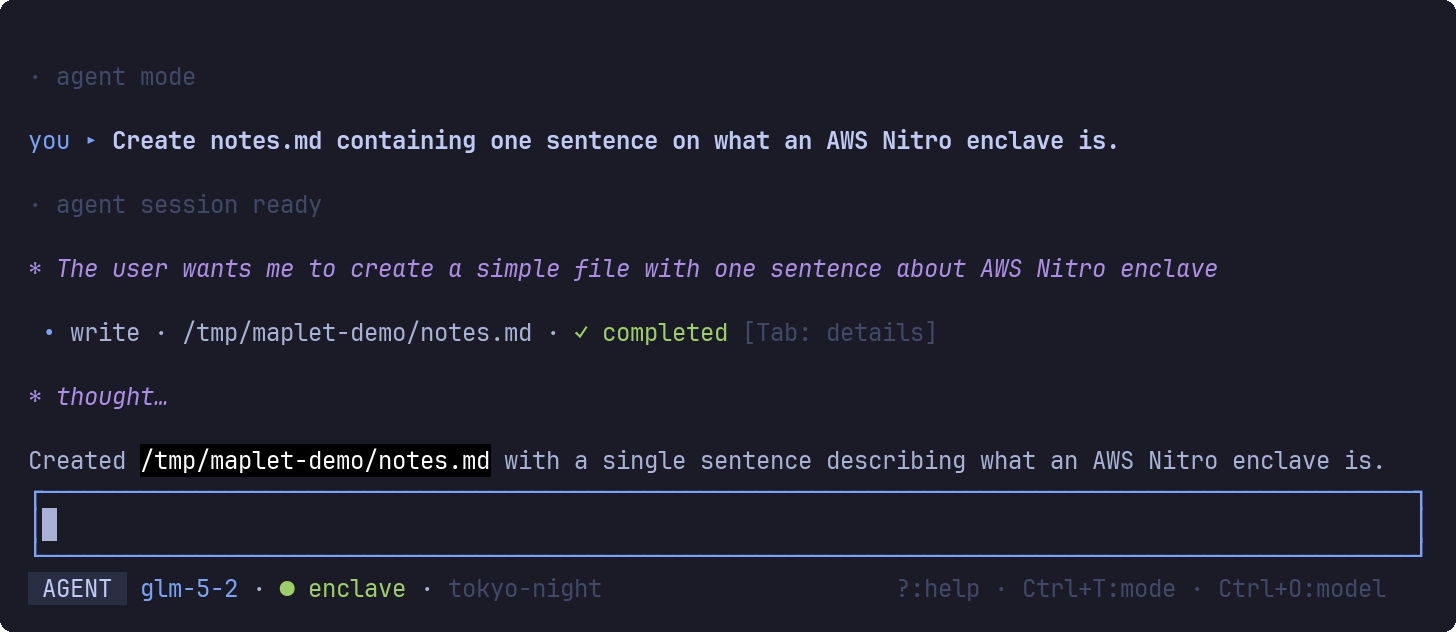
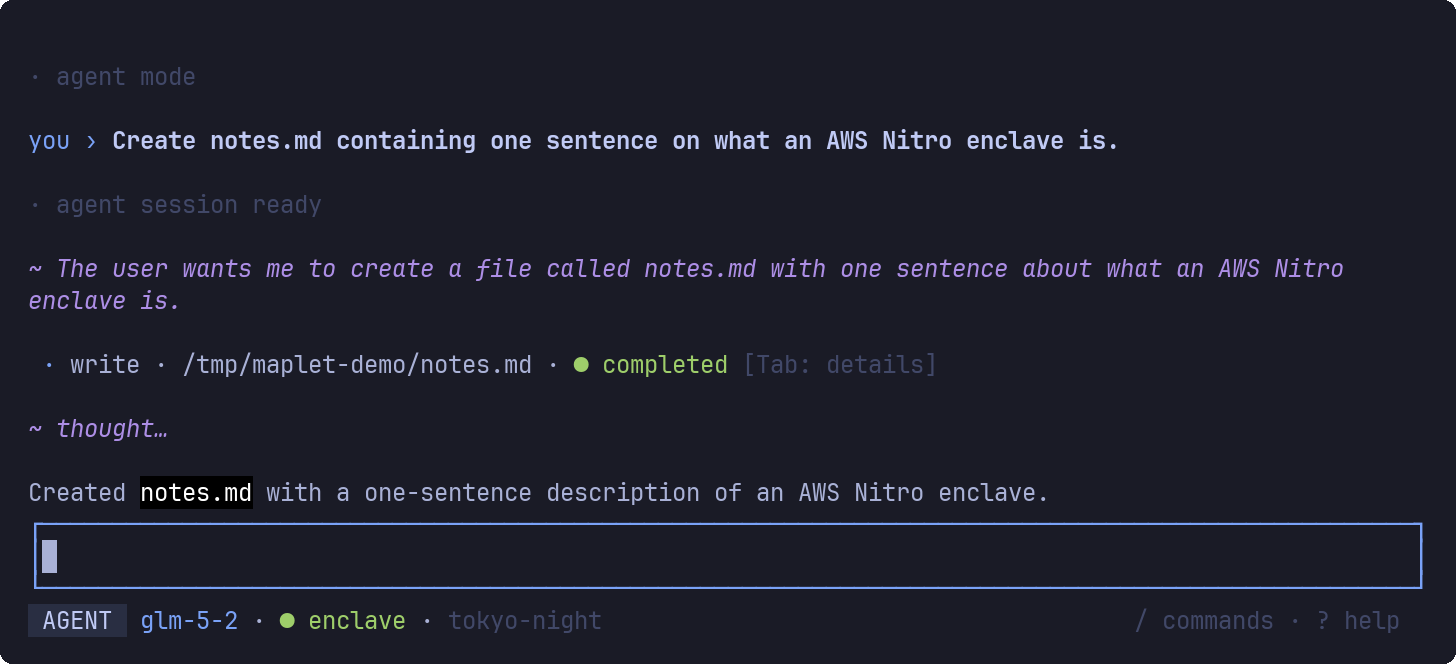
Document slash commands and refresh the screenshots
Screenshots retaken against the current build so they show the portable glyph
set and the new statusline hint, plus a new one of the command popup.

Claude-Session: https://claude.ai/code/session_013rbNvUtd2cGo6Vs4L3rzjp

diff --git a/README.md b/README.md
@@ -48,6 +48,24 @@ model calls are enclave-encrypted too.
 `maplet` — the TUI. Also: `maplet repl` (plain chat REPL), `maplet models`,
 `maplet agent-oneshot "<prompt>"` (headless agent turn, prints ACP events).
 
+### Commands
+
+Type `/` for a filtered completion list; `Tab` completes, `Enter` runs the
+highlighted command, `Esc` dismisses.
+
+![slash commands](docs/commands.png)
+
+| Command | Action |
+|---|---|
+| `/help` | show keys and commands |
+| `/model [id]` | pick a model, or set one by id |
+| `/new` (`/clear`) | start a new session |
+| `/sessions` (`/resume`) | reopen a saved session |
+| `/chat` · `/agent` | switch mode |
+| `/quit` (`/exit`, `/q`) | leave maplet |
+
+### Keys
+
 | Key | Action |
 |---|---|
 | `Enter` / `Alt+Enter` | send / newline |
